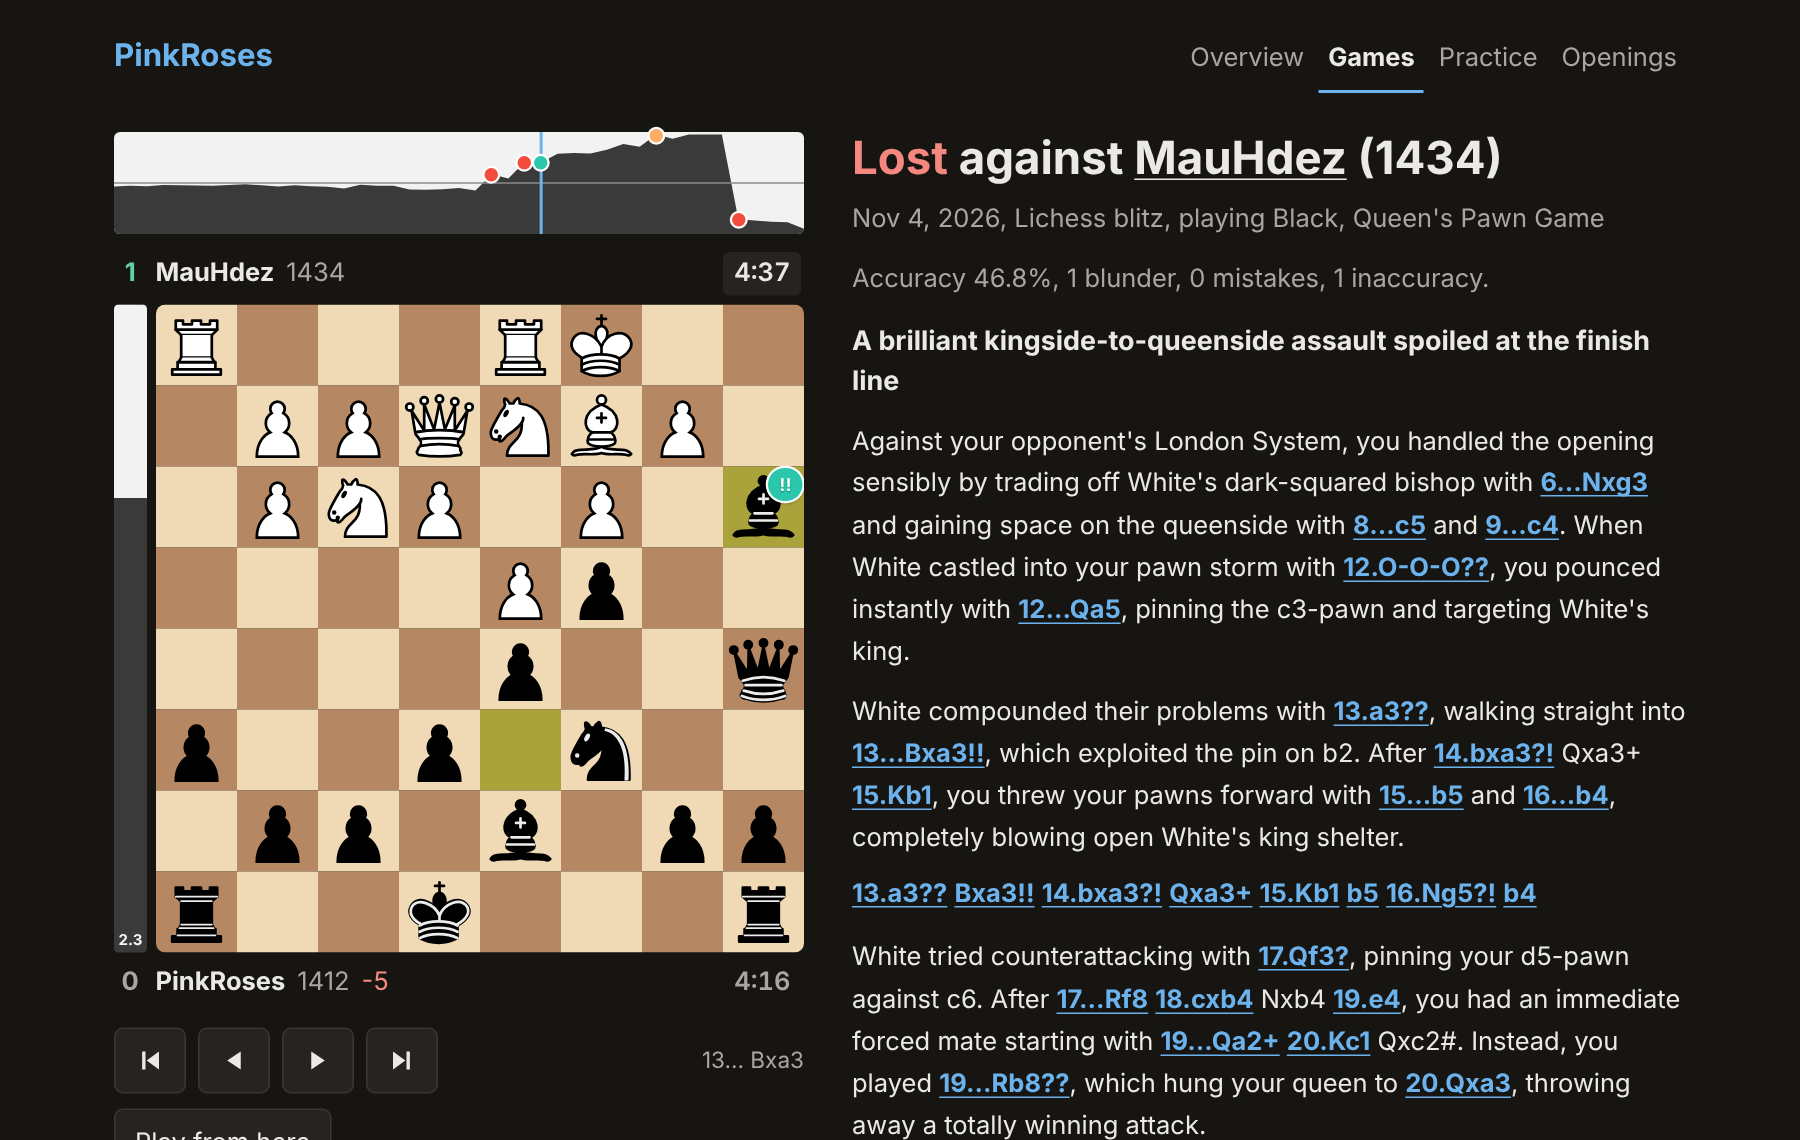
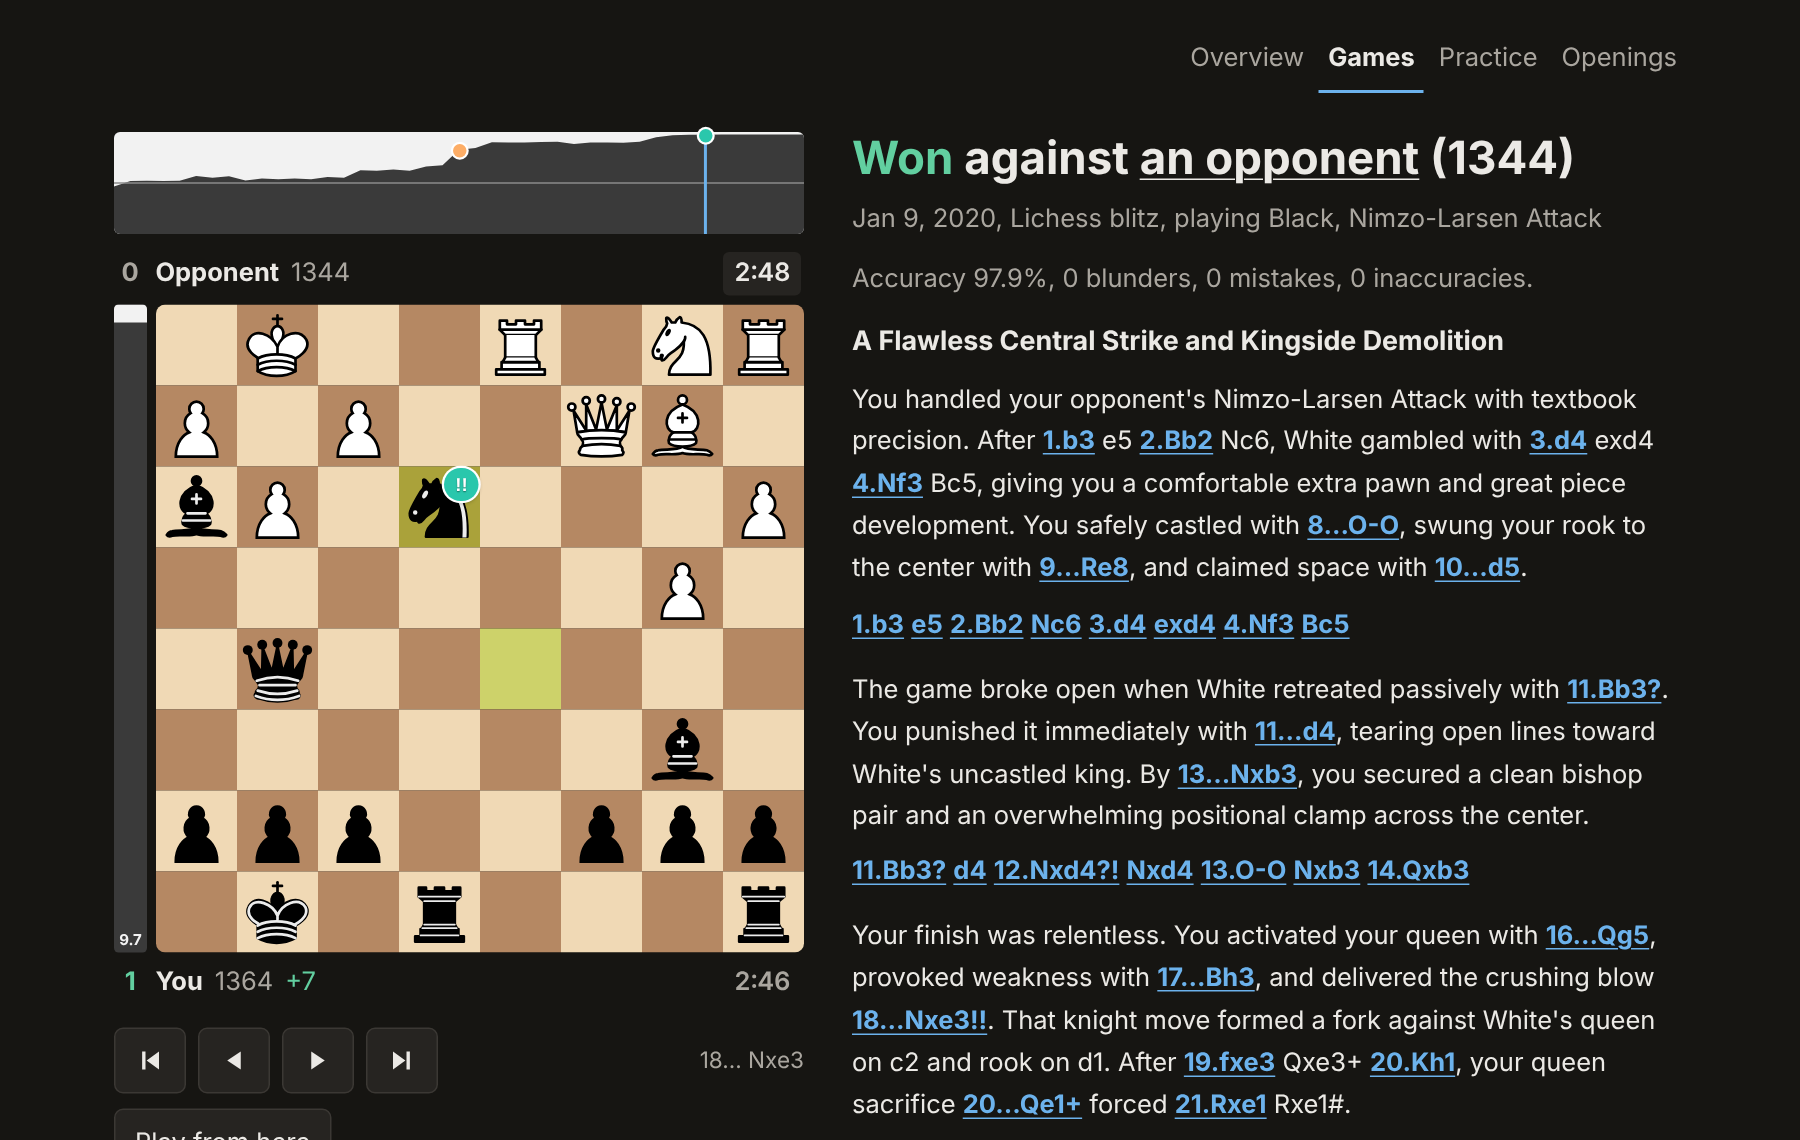
Show a winning game in the README and remove account names (#47)

diff --git a/README.md b/README.md
@@ -2,7 +2,7 @@
 
 An automated pipeline that has reviewed over 11,000 of my chess games with Gemini and Claude and checks each review against the board.
 
-Tracks every game played by [PinkRoses](https://lichess.org/@/PinkRoses) on Lichess and [Qqisking](https://www.chess.com/member/qqisking) on Chess.com, checks each one with Stockfish, and publishes a written review of it, along with rating trends and recurring mistakes, as a GitHub Pages site.
+Tracks every game I play on Lichess and Chess.com, checks each one with Stockfish, and publishes a written review of it, along with rating trends and recurring mistakes, as a GitHub Pages site.
 
 **Live site:** https://kennethkimbrough.github.io/pinkroses-lichess/
 
